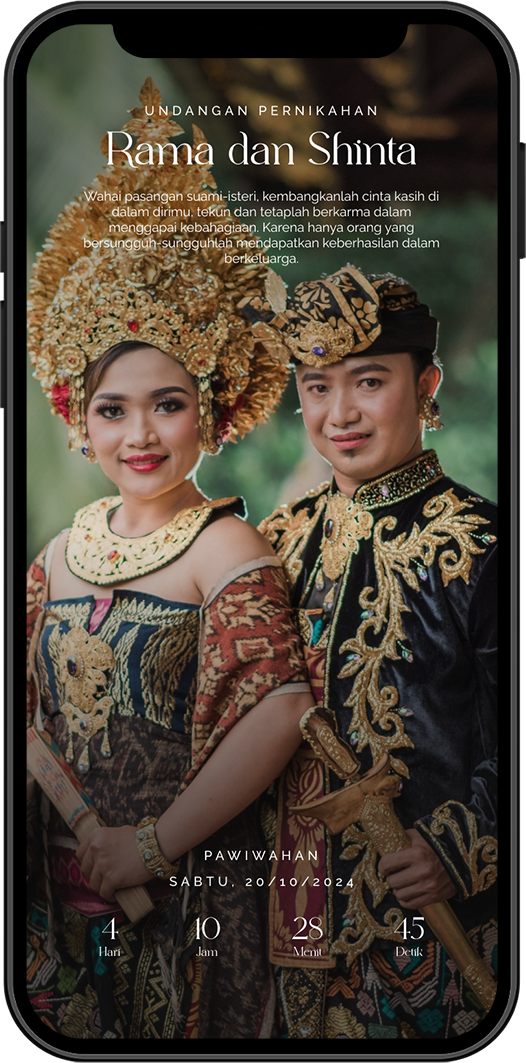
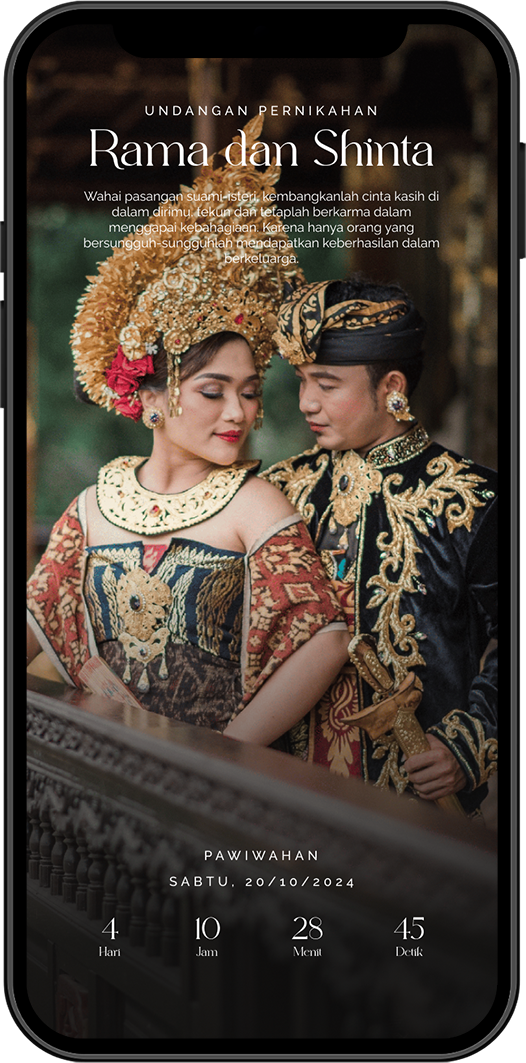
modified:   components/themes/Nirvaya/layouts/hero.tsx modified:   designs/Themes/Nirvaya/Nirvaya - Cover.png modified:   designs/Themes/Nirvaya/Nirvaya - Hero.png modified:   designs/Themes/Nirvaya/Phone Cover.png modified:   designs/Themes/Nirvaya/Phone Hero.png modified:   designs/Themes/Nirvaya/

diff --git a/pages/admin/themes/index.tsx b/pages/admin/themes/index.tsx
@@ -57,7 +57,7 @@ const ReviewDashboard: React.FC<PageProps> = ({ token }) => {
                         {theme.name}
                       </h1>
                       {theme.cover_video && (
-                        <p className="bg-admin-dark text-white text-xs font-medium px-2 py-[2px] rounded-lg flex items-center gap-x-1">
+                        <p className="bg-admin-dark text-white text-xs font-semibold px-2 py-[2px] rounded-lg flex items-center gap-x-1">
                           <BiVideoRecording />
                           <span>Cover Video</span>
                         </p>
@@ -67,7 +67,7 @@ const ReviewDashboard: React.FC<PageProps> = ({ token }) => {
                           theme.active
                             ? "bg-dashboard-primary text-admin-dark"
                             : "bg-admin-dark/10 text-admin-dark/50"
-                        } text-xs font-medium pl-1 pr-2 py-[2px] rounded-lg flex items-center gap-x-1`}
+                        } text-xs font-semibold pl-1 pr-2 py-[2px] rounded-lg flex items-center gap-x-1`}
                       >
                         {theme.active ? <BiCheck /> : <BiX />}
                         <span>{theme.active ? "Enabled" : "Disabled"}</span>
@@ -158,7 +158,7 @@ const ReviewDashboard: React.FC<PageProps> = ({ token }) => {
                           <div className="flex items-center gap-x-2">
                             <h6>{theme.name}</h6>
                             {theme.cover_video && (
-                              <p className="bg-admin-dark text-white text-xs font-medium px-2 py-[2px] rounded-lg flex items-center gap-x-1">
+                              <p className="bg-admin-dark text-white text-xs font-semibold px-2 py-[2px] rounded-lg flex items-center gap-x-1">
                                 <BiVideoRecording />
                                 <span>Cover Video</span>
                               </p>
@@ -168,7 +168,7 @@ const ReviewDashboard: React.FC<PageProps> = ({ token }) => {
                                 theme.active
                                   ? "bg-dashboard-primary text-admin-dark"
                                   : "bg-admin-dark/10 text-admin-dark/50"
-                              } text-xs font-medium pl-1 pr-2 py-[2px] rounded-lg flex items-center gap-x-1`}
+                              } text-xs font-semibold pl-1 pr-2 py-[2px] rounded-lg flex items-center gap-x-1`}
                             >
                               {theme.active ? <BiCheck /> : <BiX />}
                               <span>
@@ -185,7 +185,7 @@ const ReviewDashboard: React.FC<PageProps> = ({ token }) => {
                                 (tc: ThemeCategory) => (
                                   <p
                                     key={`theme-category-${tc.id}`}
-                                    className={`bg-admin-dark/10 text-admin-dark text-xs font-medium px-2 py-[2px] rounded-lg flex items-center gap-x-1`}
+                                    className={`text-admin-dark  bg-gray-200 rounded-lg font-semibold px-3 py-1 text-sm`}
                                   >
                                     {tc.name}
                                   </p>
@@ -202,7 +202,7 @@ const ReviewDashboard: React.FC<PageProps> = ({ token }) => {
                               {theme.packages?.map((pk: Package) => (
                                 <p
                                   key={`package-${pk.id}`}
-                                  className={`bg-admin-dark/10 text-admin-dark text-xs font-medium px-2 py-[2px] rounded-lg`}
+                                  className={`text-admin-dark  bg-gray-200 rounded-lg font-semibold px-3 py-1 text-sm`}
                                 >
                                   {pk.name}
                                 </p>

diff --git a/pages/admin/clients/index.tsx b/pages/admin/clients/index.tsx
@@ -206,23 +206,7 @@ const ClientDashboard: React.FC<ClientDashboardProps> = ({ token }) => {
                       </div>
                     </div>
                   </div>
-                  <div className="pt-3 flex flex-col gap-y-2">
-                    {client.status && (
-                      <div className="flex">
-                        <InputSelect
-                          onChange={(e) =>
-                            actions.handleSetStatus(
-                              client.id as number,
-                              e.target.value
-                            )
-                          }
-                          value={client.status}
-                          inputSize="small"
-                          options={clientStatus}
-                        />
-                      </div>
-                    )}
-
+                  <div className="pt-3 flex flex-col gap-y-2 w-full">
                     <div className="grid grid-cols-2 gap-2">
                       <div>
                         <p className="text-gray-500 font-medium text-xs">
@@ -257,6 +241,24 @@ const ClientDashboard: React.FC<ClientDashboardProps> = ({ token }) => {
                           {client.theme_category?.name ?? "-"}
                         </p>
                       </div>
+                      {client.status && (
+                        <div>
+                          <p className="text-gray-500 font-medium text-xs mb-1">
+                            Status
+                          </p>
+                          <InputSelect
+                            onChange={(e) =>
+                              actions.handleSetStatus(
+                                client.id as number,
+                                e.target.value
+                              )
+                            }
+                            value={client.status}
+                            inputSize="small"
+                            options={clientStatus}
+                          />
+                        </div>
+                      )}
                     </div>
                   </div>
                 </div>

diff --git a/pages/admin/clients/[slug].tsx b/pages/admin/clients/[slug].tsx
@@ -11,6 +11,7 @@ import {
   BiImageAlt,
   BiLeftArrowAlt,
   BiLockAlt,
+  BiSave,
   BiSolidPlusCircle,
   BiSolidShow,
   BiSolidUserCheck,
@@ -133,11 +134,38 @@ const UpdateClient: React.FC<UpdateClientProps> = ({ slug, token }) => {
                   />
                 )}
                 <ButtonPrimary
-                  icon={<BiLockAlt />}
-                  onClick={actions.handleToggleShowPassword}
+                  icon={
+                    state.showChangePassword &&
+                    state.formData.password?.length > 0 ? (
+                      <BiSave />
+                    ) : state.showChangePassword &&
+                      state.formData.password?.length === 0 ? (
+                      <BiX />
+                    ) : (
+                      <BiLockAlt />
+                    )
+                  }
+                  onClick={() => {
+                    if (
+                      state.showChangePassword &&
+                      state.formData.password?.length > 0
+                    ) {
+                      actions.handleChangePassword();
+                    } else {
+                      actions.handleToggleShowPassword();
+                    }
+                  }}
                   type="button"
                   size="small"
-                  title={state.showChangePassword ? "Save" : "Change Password"}
+                  title={
+                    state.showChangePassword &&
+                    state.formData.password?.length > 0
+                      ? "Save"
+                      : state.showChangePassword &&
+                        state.formData.password?.length === 0
+                      ? "Cancel"
+                      : "Change Password"
+                  }
                   className="mb-[10px]"
                 />
               </div>

diff --git a/hooks/admin/useAdminUpdateClient.ts b/hooks/admin/useAdminUpdateClient.ts
@@ -1074,6 +1074,46 @@ export const useAdminUpdateClient = (slug: string, token: string | null) => {
     setShowChangePassword(!showChangePassword);
   };
 
+  const handleChangePassword = async () => {
+    const changePassword = async () => {
+      const response = await getClient(
+        "/api/_a/_up",
+        {
+          method: "POST",
+          body: JSON.stringify({
+            username: formData.slug,
+            password: formData.password,
+            role: 'client'
+          }),
+        },
+        token
+      );
+
+      if (!response.ok) {
+        const errorResult = await response.json();
+        throw new Error(
+          errorResult.message || "Failed to change client password"
+        );
+      }
+
+      return await response.json();
+    };
+
+    toast.promise(changePassword(), {
+      loading: "Changing client password...",
+      success: () => {
+        setLoading(false);
+        setFormData((state) => ({ ...state, password: "" }));
+        setShowChangePassword(false);
+        return "Client password successfully changed";
+      },
+      error: (error: any) => {
+        setLoading(false);
+        return error.message || "Failed to change client password";
+      },
+    });
+  };
+
   return {
     state: {
       formData,
@@ -1110,6 +1150,7 @@ export const useAdminUpdateClient = (slug: string, token: string | null) => {
       handleSetSeoImage,
       handleDeleteImageEvent,
       handleToggleShowPassword,
+      handleChangePassword,
     },
   };
 };

diff --git a/pages/api/_a/_up.ts b/pages/api/_a/_up.ts
@@ -1,0 +1,47 @@
+import { hashPassword } from "@/lib/auth";
+import sql from "@/lib/db";
+import handleError from "@/lib/errorHandling";
+import { authenticateUser } from "@/lib/middleware";
+import { capitalizeWords } from "@/utils/capitalizeWords";
+import type { NextApiResponse, NextApiRequest } from "next";
+
+const handler = async (request: NextApiRequest, response: NextApiResponse) => {
+  const { username, password, role } = request.body;
+
+  try {
+    if (!username) {
+      return handleError(response, new Error("Username required"));
+    }
+    if (!password) {
+      return handleError(response, new Error("Password required"));
+    }
+
+    const { rowCount } = await sql.query(
+      "SELECT username FROM users WHERE username = $1",
+      [username]
+    );
+
+    if (rowCount === 0) {
+      return handleError(
+        response,
+        new Error(`${capitalizeWords(role)} does not exists`)
+      );
+    }
+
+    const hashedPassword = await hashPassword(password);
+
+    const query = `UPDATE users SET password = $1 WHERE username = $2`;
+    const values = [hashedPassword, username];
+
+    await sql.query(query, values);
+
+    return response.status(200).json({
+      success: true,
+      message: "Password updated successfully",
+    });
+  } catch (error) {
+    handleError(response, error);
+  }
+};
+
+export default authenticateUser(handler);

diff --git a/components/themes/Nirvaya/layouts/hero.tsx b/components/themes/Nirvaya/layouts/hero.tsx
@@ -20,7 +20,9 @@ const Hero = () => {
 
   const images =
     (gallery &&
-      (gallery as string[]).filter((image) => client?.seo !== image)) ||
+      (gallery as string[]).filter(
+        (image) => client?.seo !== image && client?.cover !== image
+      )) ||
     [];
 
   return (
@@ -39,6 +41,21 @@ const Hero = () => {
           slidesPerView={1}
           modules={[Autoplay, EffectFade]}
         >
+          {client?.cover && (
+            <SwiperSlide className="relative w-full h-full" key={`Hero Cover`}>
+              <div className="absolute inset-0 z-0">
+                <Image
+                  fill
+                  quality={100}
+                  alt={`Hero Cover`}
+                  priority
+                  sizes="100vw"
+                  className="object-cover bg-nirvaya-dark/5 transform translate-y-0 lg:translate-y-0 transition-transform"
+                  src={client?.cover}
+                />
+              </div>
+            </SwiperSlide>
+          )}
           {images.map((image, index) => (
             <SwiperSlide
               className="relative w-full h-full"
